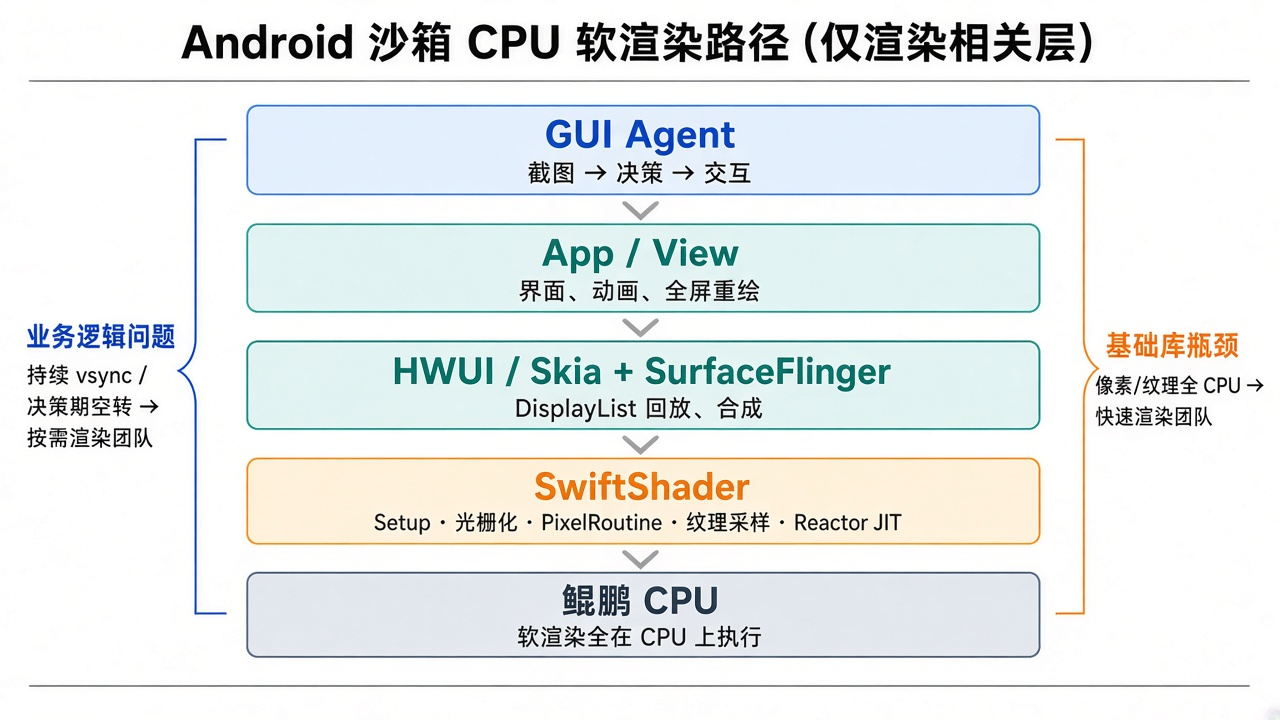
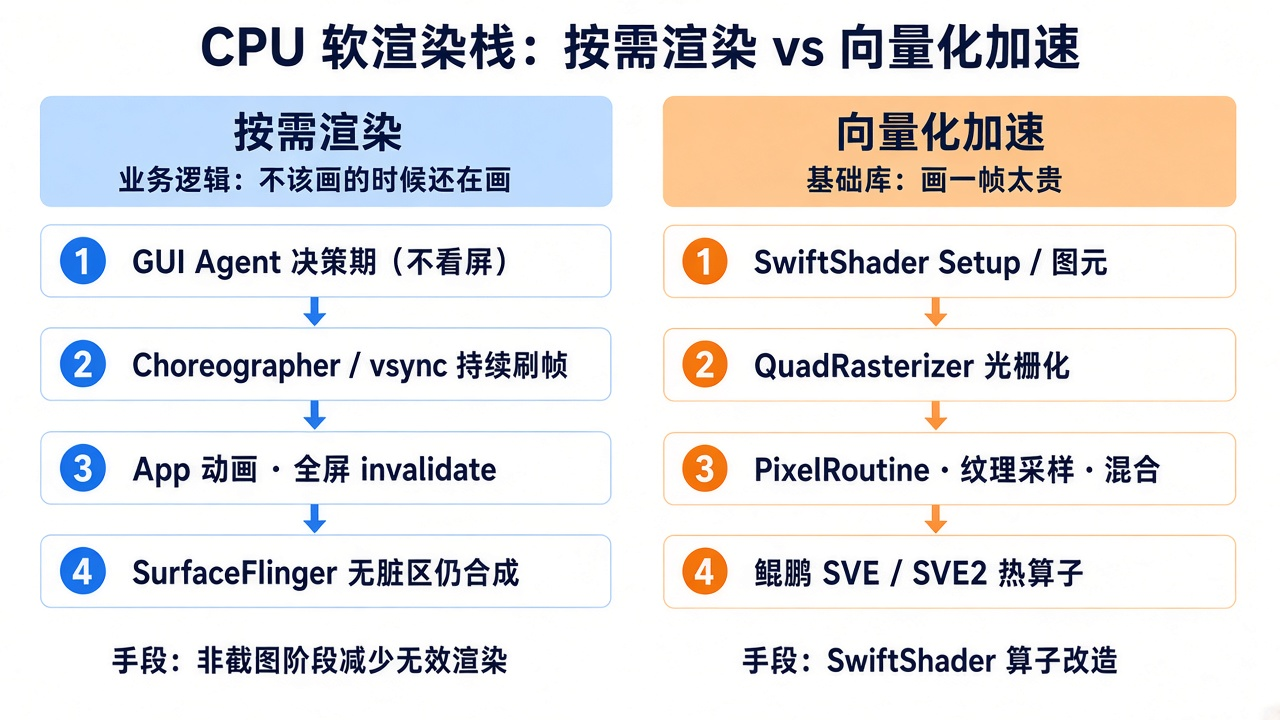
docs: split on-demand vs vectorized render; drop ARPO 6h causality
ARPO 8-env >6h vs 256-env ~1.2h is epoch sampling wall-clock from
vLLM batching and OS/GUI overlap, not this sandbox's CPU software
render. Keep packing causality at 2-core vs 4-core. Redraw the
stack as two columns: on-demand business path vs SwiftShader SVE.

Autonomously-by: Cursor-Grok:4.6

diff --git a/docs/android-sandbox-on-demand-rendering.md b/docs/android-sandbox-on-demand-rendering.md
@@ -14,7 +14,7 @@ Mobile GUI 训练不是「开一台模拟器给人看」，而是用很多台 An
 
 1. **能并开：** 一次训练要同时挂一批环境。公开工作里，学术在线 RL 常见 **几十路**（DigiRL 到 64 路模拟器 / 128 CPU）；桌面 GUI RL 可以到 **256 路**（ARPO）；工业级 GUI RL 是 **数千台 VM、百万级 interactive rollout**（UI-TARS-2）。Android 侧对标工作每台只要 **2 核**（DigiRL、MobileGUI-RL）。
 2. **能截图、能操作：** 观测就是屏幕图，动作就是坐标手势。人不需要 60fps 视频流；模型一步看一张图。
-3. **采得起、供得上：** 环境路数直接决定 GPU 侧一轮要等多久。ARPO 把并行从 8 提到 256，单 epoch 采样从 **6 小时以上降到约 1.2 小时**。路数开不满，训练墙钟就上去，同样预算少做实验。
+3. **采得起、供得上：** 环境路数乘采样吞吐。路数开不满，同样预算少做实验。
 
 单条轨迹并不长：DigiRL 每条最多 **10～20 步**，MobileGUI-RL 最多 **25 步**，评测任务几十到一百条量级。主流范式是 **「中短轨迹 × 多路并行 × 多轮迭代」**，不是「一轮 100 万步、100 路一起跑」。下面不用这个假算例。
 
@@ -37,21 +37,21 @@ Mobile GUI 训练不是「开一台模拟器给人看」，而是用很多台 An
 | --- | --- | --- | --- |
 | DigiRL（NeurIPS 2024） | 最多 **64** 路 Android 模拟器 / 128 CPU | **2 核** | 1.74 条轨迹/分钟；单机硬堆会掉到 0.74 |
 | MobileGUI-RL（2025） | 随 batch 的 AVD 池 | **2 核** / 3GiB | 1080×2400；436 任务 × 每任务 4～8 条 rollout，每条 ≤25 步 |
-| ARPO（2025，桌面 GUI） | **256** 路并行环境 | — | 8 路时一轮采样 &gt;6h，256 路约 **1.2h** |
+| ARPO（2025，桌面 GUI） | **256** 路并行环境 | — | 仅作并行规模参照；6h/1.2h **不是**本沙箱软渲染因果 |
 | UI-TARS-2（2025） | **数千** 台 Windows/Ubuntu/Android VM | — | 支撑百万级 interactive rollout |
 | 本沙箱 catalog | 取决于节点核数 / 4 | **4 核** / 6GiB | 软渲染热点 &gt;50% |
 
-对标 Android 在线 RL 用 2 核就能开一台；我们因为软渲染占掉约一半 CPU，catalog 按 **4 核** 装箱。同样 64 核节点：对标约 **32 路**，我们约 **16 路**，**并发约为对标的 50%**。
-
-ARPO 已经说明：并行路数差一个数量级，采样墙钟可以从 6 小时掉到 1.2 小时。我们若只能开一半路，就停在这条曲线的慢端。工业级若按数千 VM 计，每台多吃 2 核，就是整集群 **多买近一倍 CPU** 才能维持同样路数。
+对标 Android 在线 RL 用 2 核就能开一台；我们因为软渲染占掉约一半 CPU，catalog 按 **4 核** 装箱。同样 64 核节点：对标约 **32 路**，我们约 **16 路**，**并发约为对标的 50%**。工业级若按数千 VM 计，每台多吃 2 核，就是整集群 **多买近一倍 CPU** 才能维持同样路数。
 
 **业务上就是：** 同样预算少跑一半量级的并行实验，排队更长，一周训完的量更少。这是对「大规模并行训练」的主打击。50% 为内部热点推到装箱核数的量级，最终以节点实开路数校准。
+
+不要拿 ARPO「8 路 &gt;6h / 256 路约 1.2h」当本问题的因果。那是桌面 GUI **一轮采样墙钟**随并行路上扬而下降；论文归因于 **vLLM 推理 batch 变大 + 各环境 OS/GUI 延迟被重叠掉**，不是 CPU 软渲染浪费了 2 核。它只说明并行路数会改采样墙钟。我们这边改墙钟的因果链是 **2 核装箱 vs 4 核装箱**。
 
 ### 2.2 次影响：截图多等 100ms～1s，不是主矛盾
 
 &lt;10fps 时，稳定截图常常多等 **100ms～1s**。主流轨迹只有十几到二十几步，决策本身又是秒级，**单条轨迹多等几秒，对「人能不能用」几乎无感，也撑不起「训练体验差」这个帽子。**
 
-它仍然值得做，原因不是 100ms，而是：复杂页若迟迟画不完，截图窗口会从百毫秒拖成数秒，并行池被慢环境拖尾（ARPO 也写了 GUI 环境延迟会拖所有并行环境）。快速渲染要防的是这条尾，不是日常那 100ms。
+它仍然值得做，原因不是 100ms，而是：复杂页若迟迟画不完，截图窗口会从百毫秒拖成数秒，并行池被慢环境拖尾。快速渲染要防的是这条尾，不是日常那 100ms。
 
 ## 3. 技术诉求：库瓶颈 / 业务逻辑 → 两条手段
 
@@ -71,19 +71,22 @@ ARPO 已经说明：并行路数差一个数量级，采样墙钟可以从 6 小
 
 由此只收两条手段（并行、分团队）：
 
-1. **按需渲染：** 非截图阶段减少无效渲染，把空转那一半核让出来，把可并开路数抬到接近 2 核装箱的量级。  
-2. **快速渲染：** 做 SwiftShader 热路径 **算子改造**（鲲鹏 SVE/SVE2 向量化 + 多线程），缩短出帧，截图期尽快拿到稳定帧。
+1. **按需渲染（业务逻辑）：** 非截图阶段减少无效渲染，把装箱从 4 核压回接近 2 核。  
+2. **快速渲染（基础库）：** SwiftShader 热路径 **算子改造**（鲲鹏 SVE/SVE2 向量化 + 多线程），缩短出帧。
 
 ## 4. 软件栈图
 
-只画渲染相关层。左侧业务逻辑走按需，右侧基础库走 SwiftShader 算子改造。
+只画 CPU 软渲染相关层，左右分开：
 
-![Android 沙箱 CPU 软渲染路径](assets/android-cpu-render-stack.png)
+- **左 = 按需渲染**：业务逻辑，决策期仍 vsync / 动画 / SurfaceFlinger 合成、无截图。  
+- **右 = 向量化加速**：SwiftShader 算子（Setup / 光栅 / 像素 / 纹理 / 混合）→ 鲲鹏 SVE/SVE2。
+
+![CPU 软渲染栈：按需渲染 vs 向量化加速](assets/android-cpu-render-stack.png)
 
 ## 依据（脚注，不入口号正文）
 
-- DigiRL, NeurIPS 2024：64 路 / 128 CPU，约 2 核一台；1.74 traj/min；单任务 10～20 步。  
-- MobileGUI-RL, 2025：AVD **2 核**；436 任务，7B 每任务 8 条 rollout，每条 ≤25 步。  
-- ARPO, 2025：256 路并行；8 路 epoch 采样 &gt;6h，256 路约 1.2h。  
-- UI-TARS-2, 2025：数千 VM（含 Android），百万级 interactive rollout。  
-- 本沙箱：4 核 / 6GiB，`gpu_mode=guest`；内部画像 CPU 热点 &gt;50%、部分场景 &lt;10fps。
+- DigiRL, NeurIPS 2024：最多 64 路 Android / 128 CPU，约 **2 核一台**；1.74 traj/min；单任务 10～20 步。  
+- MobileGUI-RL, 2025：AVD **2 核** / 3GiB；436 任务，7B 每任务 4～8 条 rollout，每条 ≤25 步。  
+- ARPO, 2025（桌面 GUI，不是本沙箱因果）：256 路并行；8 路一轮采样 &gt;6h、256 路约 1.2h。测的是 **epoch 采样墙钟**；论文归因于推理 batch + 环境延迟重叠，**不是** CPU 软渲染。  
+- UI-TARS-2, 2025：数千 VM（Win / Ubuntu / Android），飞轮上百万级 interactive rollout。  
+- 本沙箱：目录 4 核 / 6GiB，`gpu_mode=guest`；内部画像 CPU 热点 &gt;50%、部分场景 &lt;10fps。
